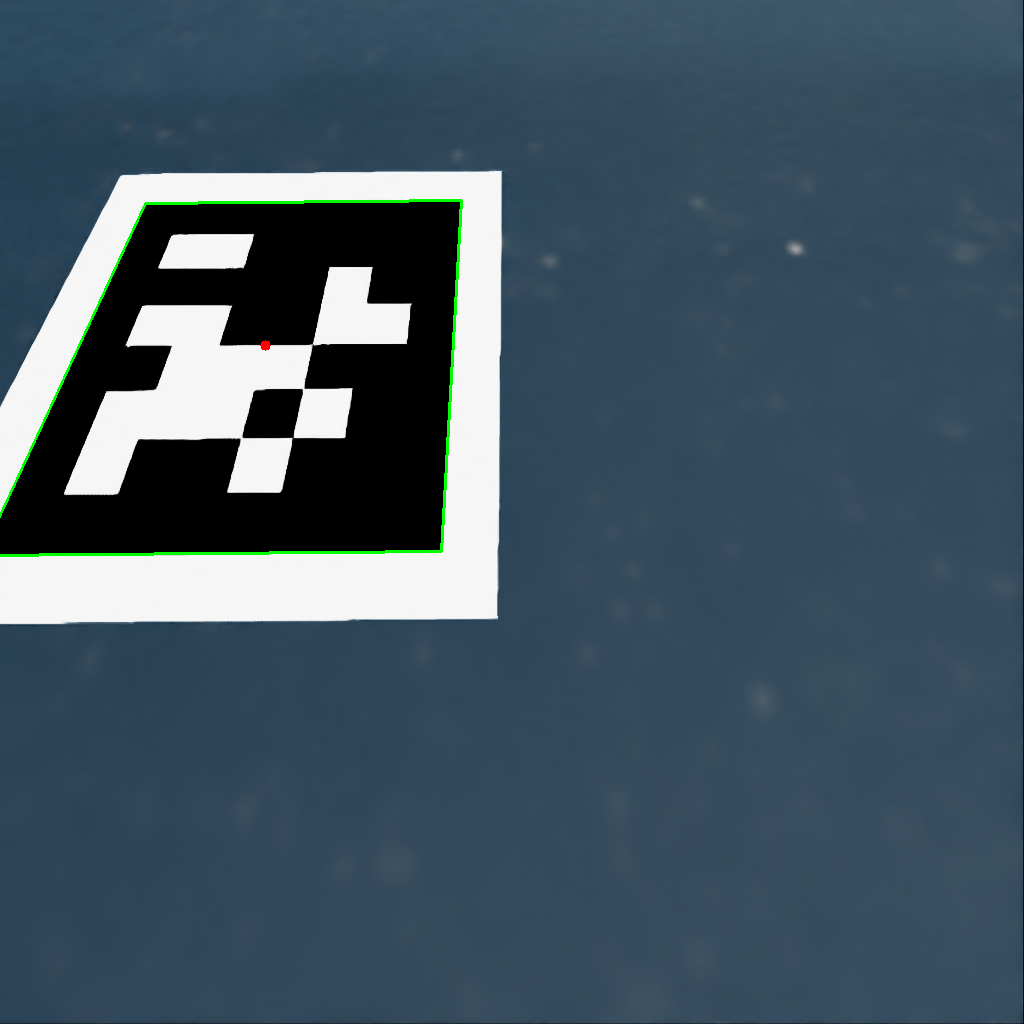
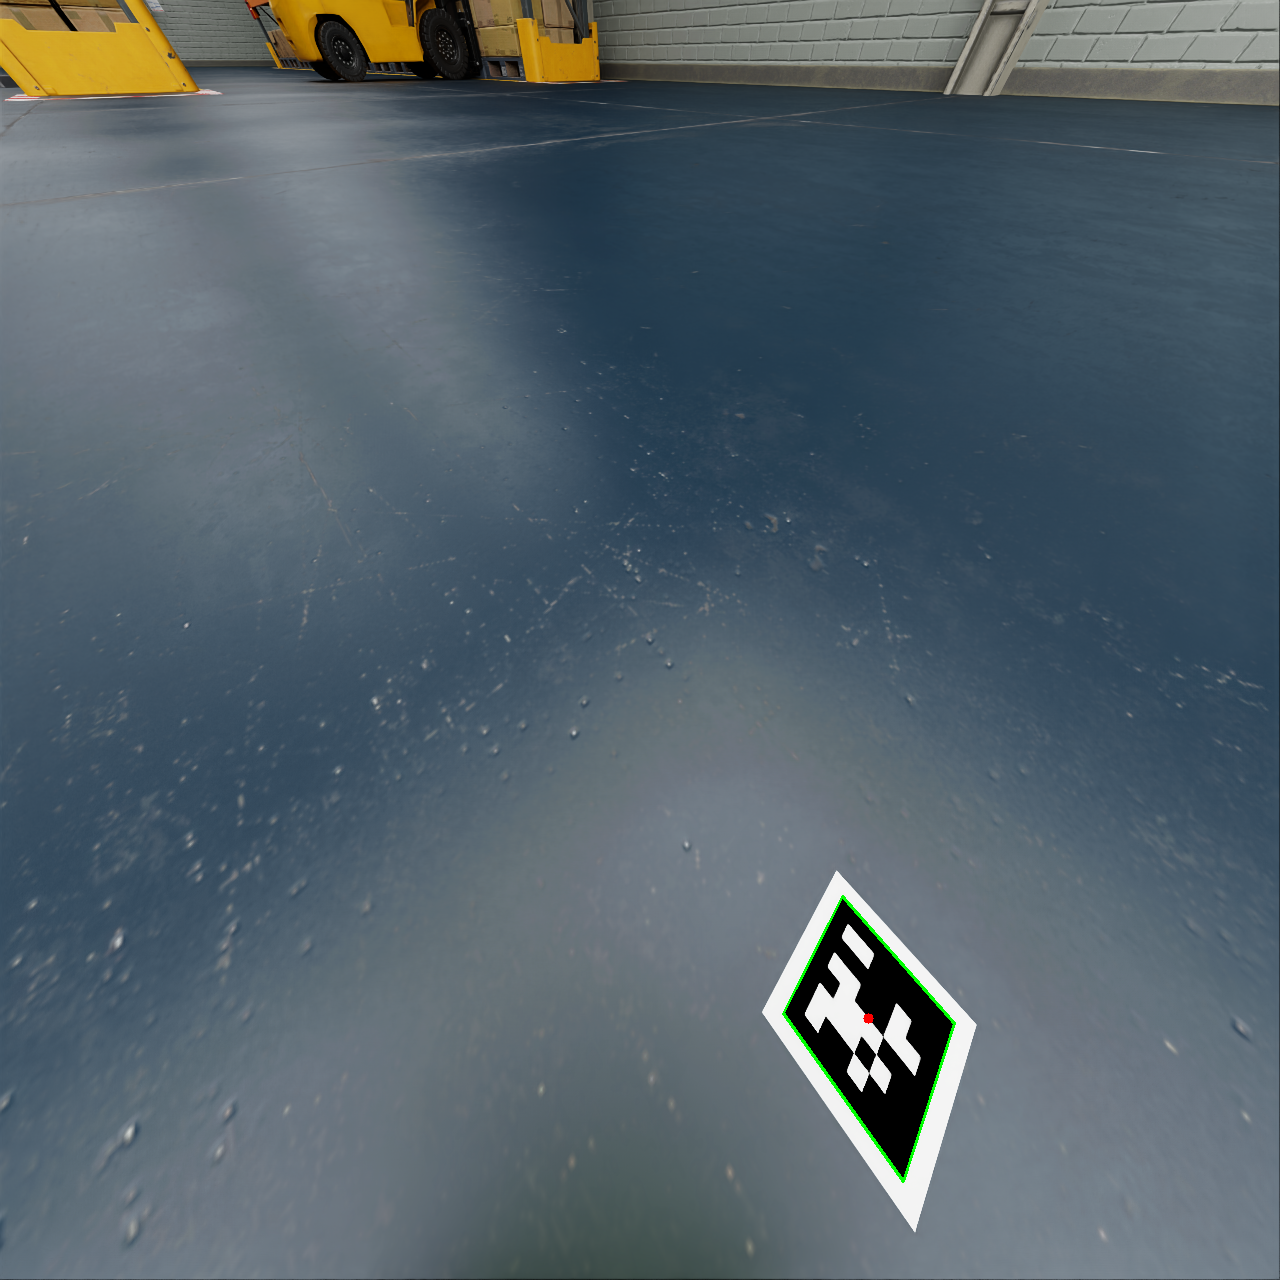
Risoluzione problema intrinsics

diff --git a/src/test_3/test_3.py b/src/test_3/test_3.py
@@ -16,51 +16,18 @@ class Constants:
     JETSON_PRIM_PATH = "/World/jetbot"
     CAMERA_PRIM_PATH = JETSON_PRIM_PATH + "/chassis/rgb_camera/jetbot_cam"
     IMAGE_PATH = "src/test_3/test.png"
-    IMAGE_RESOLUTION = (256,256)
+    IMAGE_RESOLUTION = (1280,1280)
 
 
 class Instrinsics:
     def __init__(self, camera):
+        camera_matrix = camera.get_intrinsics_matrix()
 
-        # https://forums.developer.nvidia.com/t/change-intrinsic-camera-parameters/180309/4
 
-        width, height = camera.get_resolution()
-
-        # Matrice ricavata dalla calibrazione con la scacchiera
-        # camera_matrix = [[433.028, 0.0, 541.725], [0.0, 415.378, 659.105], [0.0, 0.0, 1.0]]
-        camera_matrix = [[958.8, 0.0, 957.8], [
-            0.0, 956.7, 589.5], [0.0, 0.0, 1.0]]
-
-        ((self.fx, _, self.cx), (_, self.fy, self.cy), (_, _, _)) = camera_matrix
-
-        # in mm, 3 microns is a common pixel size for high resolution cameras
-        pixel_size = 3 * 1e-3
-        # f_stop = 1.8            # f-number, the ratio of the lens focal length to the diameter of the entrance pupil
-        # f-number, the ratio of the lens focal length to the diameter of the entrance pupil
-        f_stop = 0.0
-        focus_distance = 0.6    # in meters, the distance from the camera to the object plane
-
-        # The aperture size in mm
-        horizontal_aperture = pixel_size * width
-        vertical_aperture = pixel_size * height
-        focal_length_x = self.fx * pixel_size
-        focal_length_y = self.fy * pixel_size
-        focal_length = (focal_length_x + focal_length_y) / \
-            2         # The focal length in mm
-
-        # Set the camera parameters, note the unit conversion between Isaac Sim sensor and Kit
-        # Convert from mm to cm (or 1/10th of a world unit)
-        camera.set_focal_length(focal_length / 10.0)
-        # The focus distance in meters
-        camera.set_focus_distance(focus_distance)
-        # Convert the f-stop to Isaac Sim units
-        camera.set_lens_aperture(f_stop * 100.0)
-        # Convert from mm to cm (or 1/10th of a world unit)
-        camera.set_horizontal_aperture(horizontal_aperture / 10.0)
-        camera.set_vertical_aperture(vertical_aperture / 10.0)
-
-        camera.set_clipping_range(0.05, 1.0e5)
-
+        ((self.fx,_,self.cx),(_,self.fy,self.cy),(_,_,_)) = camera_matrix
+        
+        print(self.fx, self.cx, self.fy, self.cy)
+        
     def to_list(self):
         return [self.fx, self.fy, self.cx, self.cy]
 
@@ -139,16 +106,17 @@ class MyJetbot:
 
         self.controller = DifferentialController(
             name="simple_control", wheel_radius=0.03, wheel_base=0.1125)
-        
-        #! Capire bene come posizionare nel punto giusto la camera perché così risulta sbagliata sia l'angolazione che la posizione
+
+        # RESOLUTION = (256, 256) 
         self.camera = Camera(prim_path=Constants.CAMERA_PRIM_PATH,
-                             position=np.array([0.025, 0.0, 0.0]),
+                            #  position=np.array([0.25, 0.0, 0.0]),
                              frequency=20,
                              resolution=Constants.IMAGE_RESOLUTION,
-                             orientation=rot_utils.euler_angles_to_quats(
-                                 np.array([-45, 90, -45]), degrees=True),
+                            #  orientation=rot_utils.euler_angles_to_quats(
+                            #      np.array([0, 90, 0]), degrees=True),
                              )
         self.camera.initialize()
+        print(self.camera.get_intrinsics_matrix())
         self.intrinsics = Instrinsics(self.camera)
 
     def do_action(self, message):
@@ -211,14 +179,16 @@ class AprilTagsManager:
         result = self.detector.detect(
             gray, estimate_tag_pose=True, camera_params=my_jetbot.intrinsics.to_list(), tag_size=0.05)
 
-        # stage = omni.usd.get_context().get_stage()
-        # prim = stage.GetPrimAtPath(Constants.CAMERA_PRIM_PATH)
-        # matrix: Gf.Matrix4d = omni.usd.get_world_transform_matrix(prim)
-        # translate: Gf.Vec3d = matrix.ExtractTranslation()
+        stage = omni.usd.get_context().get_stage()
+        prim = stage.GetPrimAtPath(Constants.CAMERA_PRIM_PATH)
+        matrix: Gf.Matrix4d = omni.usd.get_world_transform_matrix(prim)
+        translate: Gf.Vec3d = matrix.ExtractTranslation()
 
-        # tag_pos = (0.21546, 0.0, 0.0001)
+        tag_center_pos = (0.21546, 0.0, 0.0001)
+        tag_top_sx_pos = (0.23549, 0.01632, 0.0001)
 
-        # distanza = np.linalg.norm(np.array(translate) - np.array(tag_pos))
+        distanza_centro = np.linalg.norm(np.array(translate) - np.array(tag_center_pos))
+        distanza_top_sx = np.linalg.norm(np.array(translate) - np.array(tag_top_sx_pos))
 
         # Stampa i risultati
         for tag in result:
@@ -240,8 +210,8 @@ class AprilTagsManager:
             cv2.imwrite("src/test_3/test_tag.png", image)
 
             norm = round(np.linalg.norm(tag.pose_t), 3)
-            # print(f"ID: {tag.tag_id}, Norm: {norm}, Dist calcolata manualmente: {distanza}")
-            print(f"ID: {tag.tag_id}, Norm: {norm} m")
+            print(f"ID: {tag.tag_id}, Norm: {norm}, Dist calcolata manualmente: centro : {distanza_centro}, topsx: {distanza_top_sx}")
+            # print(f"ID: {tag.tag_id}, Norm: {norm} m")
 
             break
 

diff --git a/appunti/appunti_isaac.md b/appunti/appunti_isaac.md
@@ -532,6 +532,8 @@ TODO: regolare i parametri e controllare se la distanza calcolata è corretta.
 
 ![alt text](image-10.png)
 
+Cerco di eseguire il processo inverso, ovvero:
+1. Da camera.get_focal_length ricavo focal length.
 
 ## Prova diversamente
 Seguo il metodo di creazione camera e calibrazione utilizzato nella documentazione di Isaac a questo link: https://docs.omniverse.nvidia.com/isaacsim/latest/features/sensors_simulation/isaac_sim_sensors_camera.html
@@ -539,6 +541,23 @@ Seguo il metodo di creazione camera e calibrazione utilizzato nella documentazio
 
 1. Posiziono la camera via script
 
+## Esempio interessante (da vedere)
+
+![alt text](image-11.png)
+
+# DOPO VENTI ORE DI LAVORO HO SCOPERTO CHE ESISTE IL METODO GET_INTRINSICS_MATRIX()
+
+Lo scarto tra la distanza calcolata tramite apriltags e quella calcolata manualmente tra la posizione della camera e quella del tag è:
+
+![alt text](image-12.png)
+
+ 
+ovvero 1 cm dato che il calcolo è fatto sull'angolo in alto a sinistra. In alcuni casi anche meno: 
+
+![alt text](image-13.png)
+
+
+![alt text](image-14.png)
 
 # TODO dati dal prof
 
